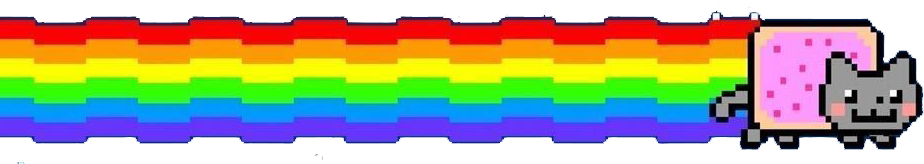
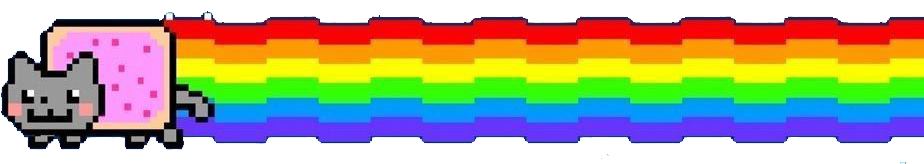
commit

diff --git a/src/at/ran/test/newgame/TheGame.java b/src/at/ran/test/newgame/TheGame.java
@@ -1,106 +1,117 @@
 package at.woa.game.objects;
-import org.newdawn.slick.*;
 
 import java.util.ArrayList;
+import java.util.Iterator;
 
-public class EasyGame extends BasicGame {
+import at.sno.newgame.nyancat;
+import at.sno.newgame.poop;
+import org.newdawn.slick.AngelCodeFont;
+import org.newdawn.slick.AppGameContainer;
+import org.newdawn.slick.BasicGame;
+import org.newdawn.slick.Color;
+import org.newdawn.slick.GameContainer;
+import org.newdawn.slick.Graphics;
+import org.newdawn.slick.Image;
+import org.newdawn.slick.Input;
+import org.newdawn.slick.Music;
+import org.newdawn.slick.SlickException;
+import org.newdawn.slick.Sound;
 
-
-    private ArrayList<MeinUfo> mUfoList;
-    private Crusher crusher;
-
+public class TheGame extends BasicGame {
+    private poop Mpoop;
+    private ArrayList<poop> MpoopList;
     private Image background;
-
+    private nyancat nyancat;
     private Sound sound;
     private Music music;
-
-    private float lautstaerke =0f;
-    private int hit=0;
-    private int miss=0;
+    private int lautstaerke = 0;
+    private int hit = 0;
+    private int miss = 0;
     private AngelCodeFont font;
-    public EasyGame() {
-        super("EasyGame");
+
+    public TheGame() {
+        super("TheGame");
     }
 
     public static void main(String[] args) throws SlickException {
-        AppGameContainer container = new AppGameContainer(new EasyGame());
+        AppGameContainer container = new AppGameContainer(new at.sno.newgame.TheGame());
         container.setDisplayMode(1024, 768, false);
-        //container.setClearEachFrame(false);
         container.setMinimumLogicUpdateInterval(25);
         container.setTargetFrameRate(60);
         container.setShowFPS(true);
         container.start();
     }
 
-
-    @Override
     public void init(GameContainer container) throws SlickException {
-        font = new AngelCodeFont("testdata/demo2.fnt","testdata/demo2_00.tga");
-        background =new Image ("assets/pics/background.png");
+        this.background = new Image("assets/pics/nyan_cat_background.jpg");
+        this.MpoopList = new ArrayList();
 
-        mUfoList=new ArrayList<MeinUfo>();
-
-        crusher= new Crusher(512,700,new Image("assets/pics/crusher.png"),container.getInput());
-
-        music = new Music("testdata/kirby.ogg", true);
-        sound = new Sound("testdata/burp.aif");
-        music.loop();
-        music.setVolume(5);
-        for(int i=1;i<=10;i++){
-            mUfoList.add(new MeinUfo(100,100,new Image("assets/pics/meinufo.png")));
+        for(int i = 1; i <= 10; ++i) {
+            this.MpoopList.add(new poop(100, 100, new Image("assets/pics/poop.png")));
+            this.nyancat = new nyancat(400, 91, new Image("assets/pics/nyancat.png"), container.getInput());
+            this.music = new Music("assets/music/nyancat.wav", true);
+            this.music.loop();
+            this.music.setVolume(1.0F);
+            this.sound = new Sound("assets/sounds/deathsound.wav");
+            this.font = new AngelCodeFont("testdata/demo2.fnt", "testdata/demo2_00.tga");
         }
+
     }
 
-    @Override
     public void update(GameContainer container, int delta) throws SlickException {
         Input input = container.getInput();
-
-        // Fenster mit ESC sclie?en
-        if (input.isKeyPressed(Input.KEY_ESCAPE)) {
+        if (input.isKeyPressed(1)) {
             container.exit();
         }
 
-        if (input.isKeyPressed(Input.KEY_2)){
-            lautstaerke = lautstaerke +0.5f;
-            if(lautstaerke >= 10) lautstaerke =10;
-            music.setVolume(lautstaerke/10f);
-        }
-        if (input.isKeyPressed(Input.KEY_1)){
-            lautstaerke = lautstaerke -0.5f;
-            if(lautstaerke < 1) lautstaerke =0;
-            music.setVolume(lautstaerke/10f);
-        }
-
-        for(MeinUfo u :mUfoList) {
-            if(crusher.intersects(u.getShape())){
-                System.out.println("coolide");
-                sound.play();
-                u.setRandomPosition();
-                hit ++;
+        if (input.isKeyPressed(3)) {
+            ++this.lautstaerke;
+            if (this.lautstaerke >= 10) {
+                this.lautstaerke = 10;
             }
-            if (u.getY()>768) {
-                miss++;
+
+            this.music.setVolume((float)this.lautstaerke / 10.0F);
+        }
+
+        if (input.isKeyPressed(2)) {
+            --this.lautstaerke;
+            if (this.lautstaerke >= 10) {
+                this.lautstaerke = 10;
+            }
+
+            this.music.setVolume((float)this.lautstaerke / 10.0F);
+        }
+
+        poop u;
+        for(Iterator var4 = this.MpoopList.iterator(); var4.hasNext(); u.update(delta)) {
+            u = (poop)var4.next();
+            if (this.nyancat.intersects(u.getShape())) {
+                System.out.println("collide");
+                this.sound.play();
+                u.setRandomPosition();
+                ++this.hit;
+            }
+
+            if (u.getX() > 1024) {
+                ++this.miss;
                 u.setRandomPosition();
             }
-            u.update(delta);
-
         }
-        crusher.update(delta);
 
+        this.nyancat.update(delta);
     }
 
-    @Override
     public void render(GameContainer container, Graphics g) throws SlickException {
-        background.draw();
-        for(MeinUfo u :mUfoList)
+        this.background.draw();
+        Iterator var3 = this.MpoopList.iterator();
+
+        while(var3.hasNext()) {
+            poop u = (poop)var3.next();
             u.draw(g);
-        crusher.draw(g);
-        font.drawString(80, 5, "Hit:"+hit, Color.black);
-        font.drawString(80, 30, "Miss:"+miss, Color.red);
+        }
+
+        this.nyancat.draw(g);
+        this.font.drawString(80.0F, 5.0F, "hits: " + this.hit, Color.black);
+        this.font.drawString(80.0F, 30.0F, "miss: " + this.miss, Color.red);
     }
-
-
-
-
-
 }

diff --git a/src/at/ran/test/newgame/NyanCat.java b/src/at/ran/test/newgame/NyanCat.java
@@ -1,64 +1,69 @@
 package at.woa.game.objects;
 
+import at.sno.game.objects.spielobjekt;
 import org.newdawn.slick.Graphics;
 import org.newdawn.slick.Image;
 import org.newdawn.slick.Input;
 import org.newdawn.slick.geom.Rectangle;
 import org.newdawn.slick.geom.Shape;
 
-public class Crusher extends SpielObjekt {
+
+public class nyancat extends spielobjekt {
     private Input input;
     private Rectangle shape;
-    private float acceleration = 0.5F;
+    private float acceleration = 0.1F;
 
-    public Crusher(int x, int y, Image image, Input input) {
+    public nyancat(int x, int y, Image image, Input input) {
         super(x, y, image);
         this.input = input;
-        this.shape = new Rectangle((float)x, (float)y, (float)image.getWidth(), (float)image.getHeight());
+        this.shape = new Rectangle((float) x, (float) y, (float) image.getWidth(), (float) image.getHeight());
     }
 
     public void draw(Graphics g) {
-        this.getImage().drawCentered((float)this.getX(), (float)this.getY());
+        this.getImage().drawCentered((float) this.getX(), (float) this.getY());
     }
 
-    public Shape getShape() {
-        return this.shape;
-    }
 
     public void update(int delta) {
         boolean pressed = false;
-        if (this.input.isKeyDown(30)) {
-            this.setX(this.getX() - (int)this.acceleration);
-            if (this.getX() < this.getWidth() / 2) {
-                this.setX(this.getWidth() / 2);
-            }
-
+        if (this.input.isKeyDown(203) && this.getY() - delta - this.getHeight() / 2 > 0) {
+            this.setX(this.getX() - (int) this.acceleration);
             pressed = true;
         }
 
-        if (this.input.isKeyDown(32)) {
-            this.setX(this.getX() + (int)this.acceleration);
-            if (this.getX() > 1024 - this.getWidth() / 2) {
-                this.setX(1024 - this.getWidth() / 2);
-            }
-
+        if (this.input.isKeyDown(205) && this.getY() + delta + this.getHeight() / 2 < 1024) {
+            this.setY(this.getY() + (int) this.acceleration);
             pressed = true;
         }
 
         if (pressed) {
-            this.acceleration += (float)delta;
-            if (this.acceleration > 15.0F) {
-                this.acceleration = 15.0F;
+            this.acceleration += (float) delta;
+            if (this.acceleration > 50.0F) {
+                this.acceleration = 50.0F;
             }
         } else {
-            this.acceleration = 0.5F;
+            this.acceleration = 0.1F;
         }
 
-        this.shape.setCenterX((float)this.getX());
-        this.shape.setCenterY((float)this.getY());
+        this.shape.setCenterX((float) this.getX());
+        this.shape.setCenterY((float) this.getY());
     }
 
-    public boolean intersects(Shape shape) {
-        return shape != null ? this.getShape().intersects(shape) : false;
+
+    @Override
+    public Shape getShape() {
+        return this.shape;
     }
+
+
+
+    public boolean intersects(Shape shape) {
+        if (shape != null) {
+            return this.getShape().intersects(shape);
+        }
+        return false;
+    }
+
+
+
 }

diff --git a/src/at/ran/test/newgame/poop.java b/src/at/ran/test/newgame/poop.java
@@ -4,56 +4,66 @@
 //
 
 package at.woa.game.objects;
+package at.sno.newgame;
 
-import java.util.Random;
+import at.sno.game.objects.spielobjekt;
 import org.newdawn.slick.Graphics;
 import org.newdawn.slick.Image;
 import org.newdawn.slick.geom.Rectangle;
 import org.newdawn.slick.geom.Shape;
 
-public class MeinUfo extends SpielObjekt {
-    private float acceleration = 0.005F;
-    private float geschwindigkeit = 2.0F;
+import java.util.Random;
+
+public class poop extends spielobjekt {
+
+    private float acceleration =0.005f;
+    private float geschwindigkeit =2;
     private Rectangle shape;
-
-    public MeinUfo(int x, int y, Image image) {
+    public poop(int x, int y, Image image) {
         super(x, y, image);
-        this.setRandomPosition();
-        this.shape = new Rectangle((float)x, (float)y, (float)image.getWidth(), (float)image.getHeight());
+        setRandomPosition();
+        shape = new Rectangle (x,y, image.getWidth(), image.getHeight());
     }
 
+    @Override
     public void draw(Graphics g) {
-        this.getImage().drawCentered((float)this.getX(), (float)this.getY());
+        this.getImage().drawCentered(this.getX(),this.getY());
     }
 
+    @Override
     public Shape getShape() {
-        return this.shape;
+        return shape;
     }
 
+    @Override
     public void update(int delta) {
-        this.geschwindigkeit += (float)delta * this.acceleration;
-        if (this.getY() > 768 + this.getHeight()) {
+        this.geschwindigkeit = (delta*this.acceleration + geschwindigkeit);
+        if(this.getX() > (1024+this.getHeight())) {
             this.setRandomPosition();
         }
-
-        this.setY(this.getY() + (int)this.geschwindigkeit);
-        this.shape.setCenterX((float)this.getX());
-        this.shape.setCenterY((float)this.getY());
+        this.setX(this.getX()+(int) this.geschwindigkeit);
+        shape.setCenterX(this.getX());
+        shape.setCenterY(this.getY());
     }
 
-    public void setRandomPosition() {
+    public void setRandomPosition(){
         Random r = new Random();
-        int ry = false;
-        int rx = false;
-        int rx = r.nextInt(1024 - this.getWidth() + 1 - 0) + this.getWidth() / 2;
-        int ry = r.nextInt(601 + this.getHeight()) + this.getHeight();
-        this.setY(-ry);
-        this.setX(rx);
-        this.setRandomAcceleration();
+        int ry = 0;
+        int rx = 0;
+        rx = r.nextInt(1024+this.getWidth()+1-0) +(this.getWidth()/2);
+        // y=0 --> oben
+        ry = r.nextInt(600-1+this.getHeight())+this.getHeight();
+        this.setY(ry);
+        this.setX(-rx);
+        setRandomAcceleration();
+    }
+    private void setRandomAcceleration(){
+        Random r = new Random();
+        this.geschwindigkeit = r.nextInt(4-1)+1;
+
     }
 
-    private void setRandomAcceleration() {
-        Random r = new Random();
-        this.geschwindigkeit = (float)(r.nextInt(3) + 1);
-    }
+
+
+
 }
